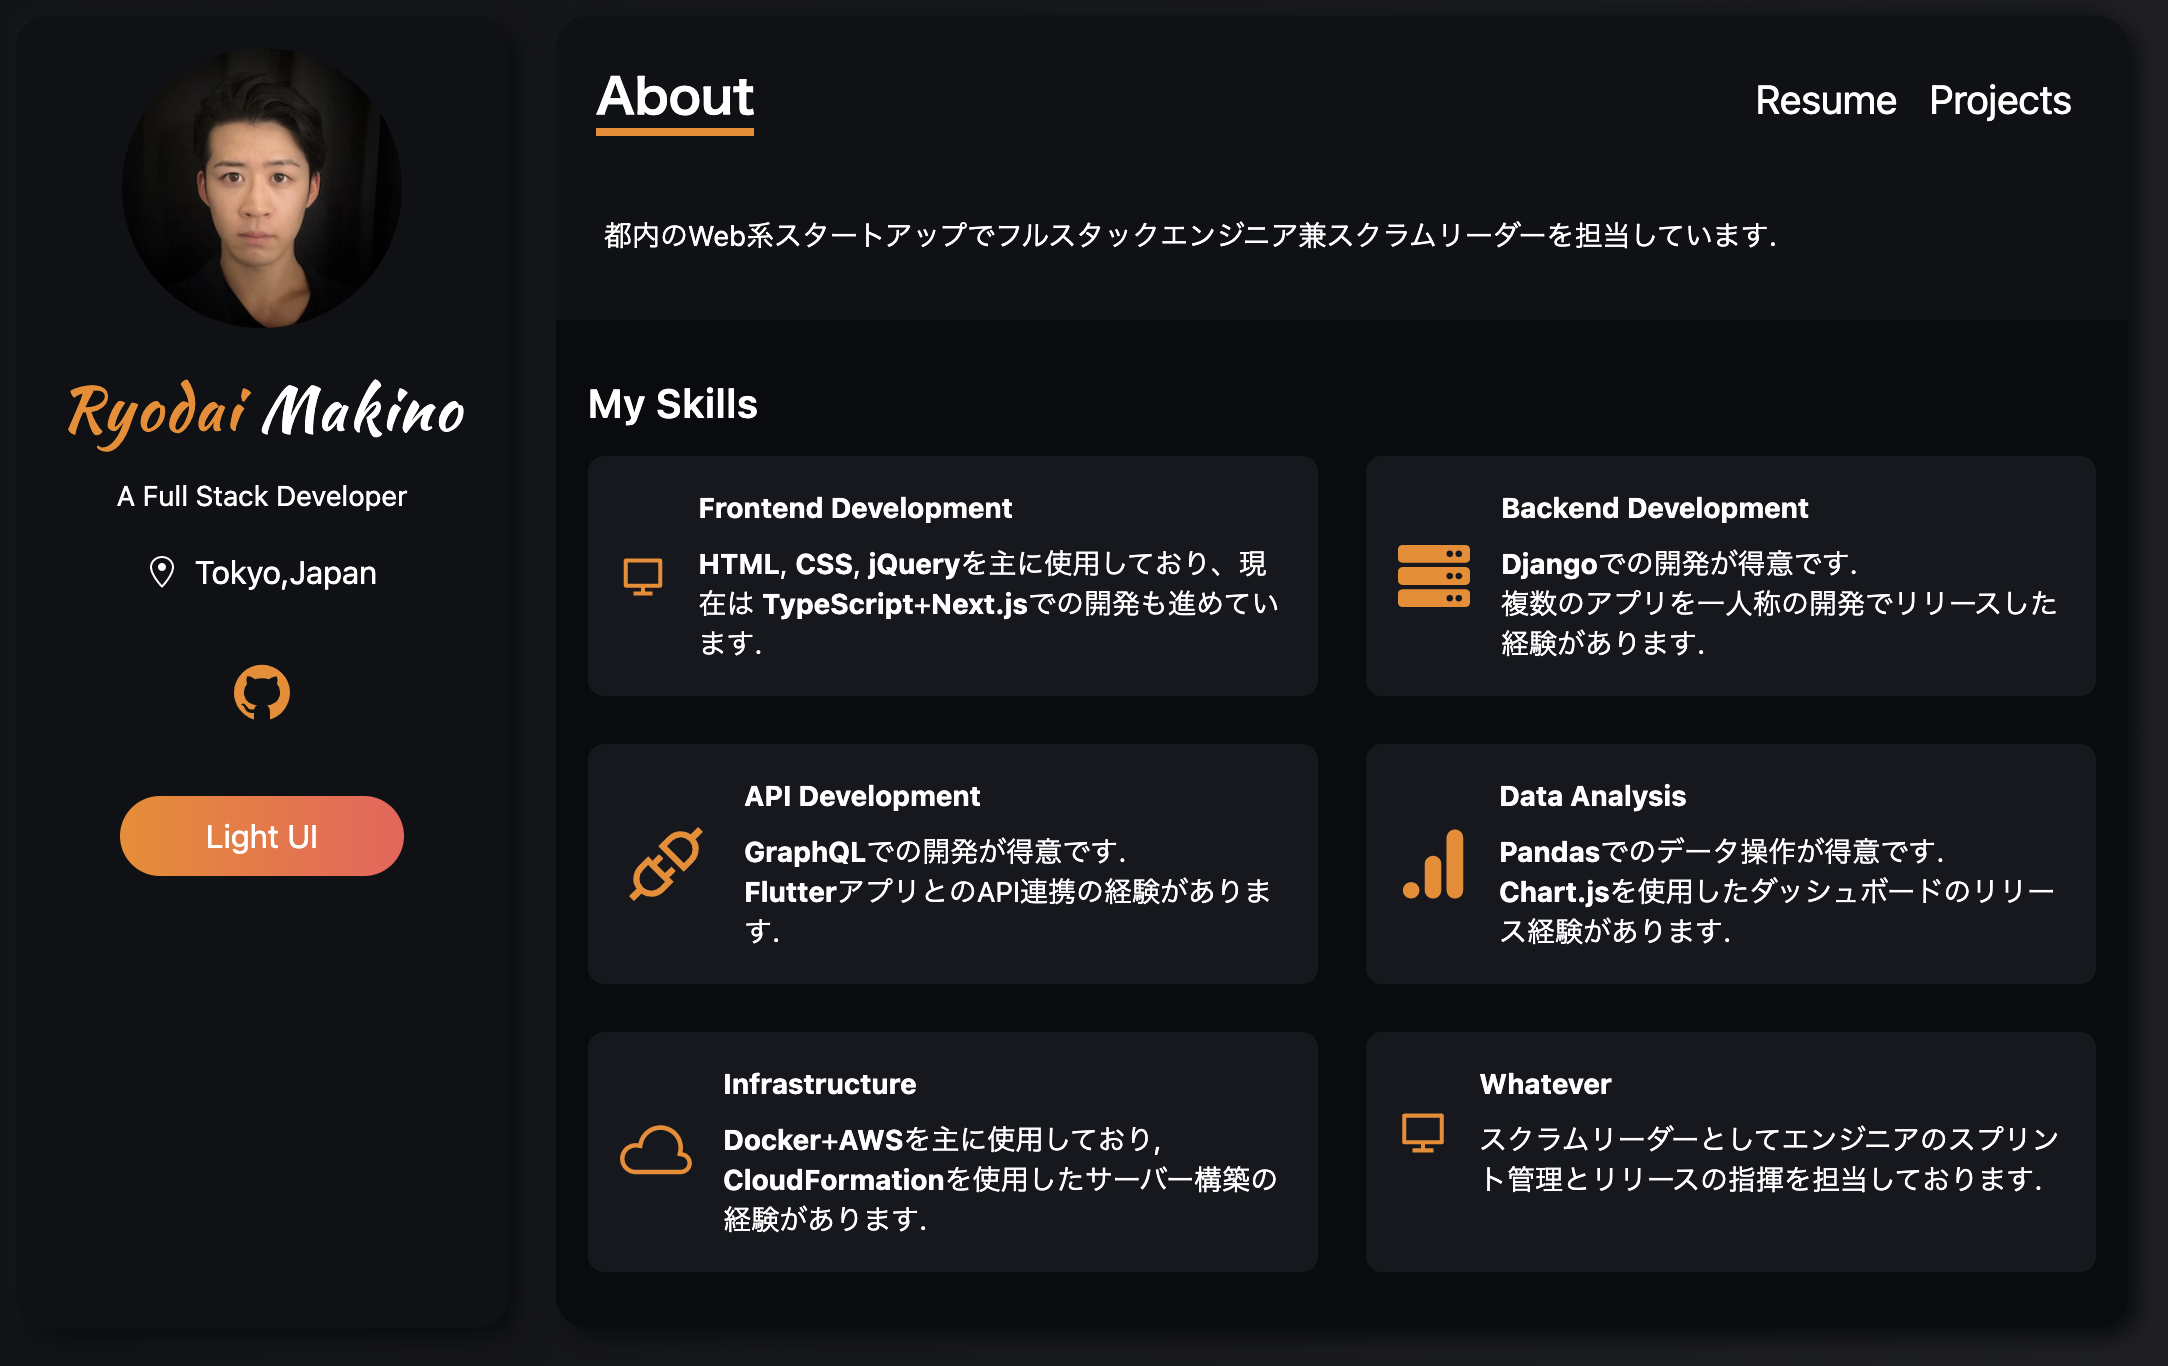
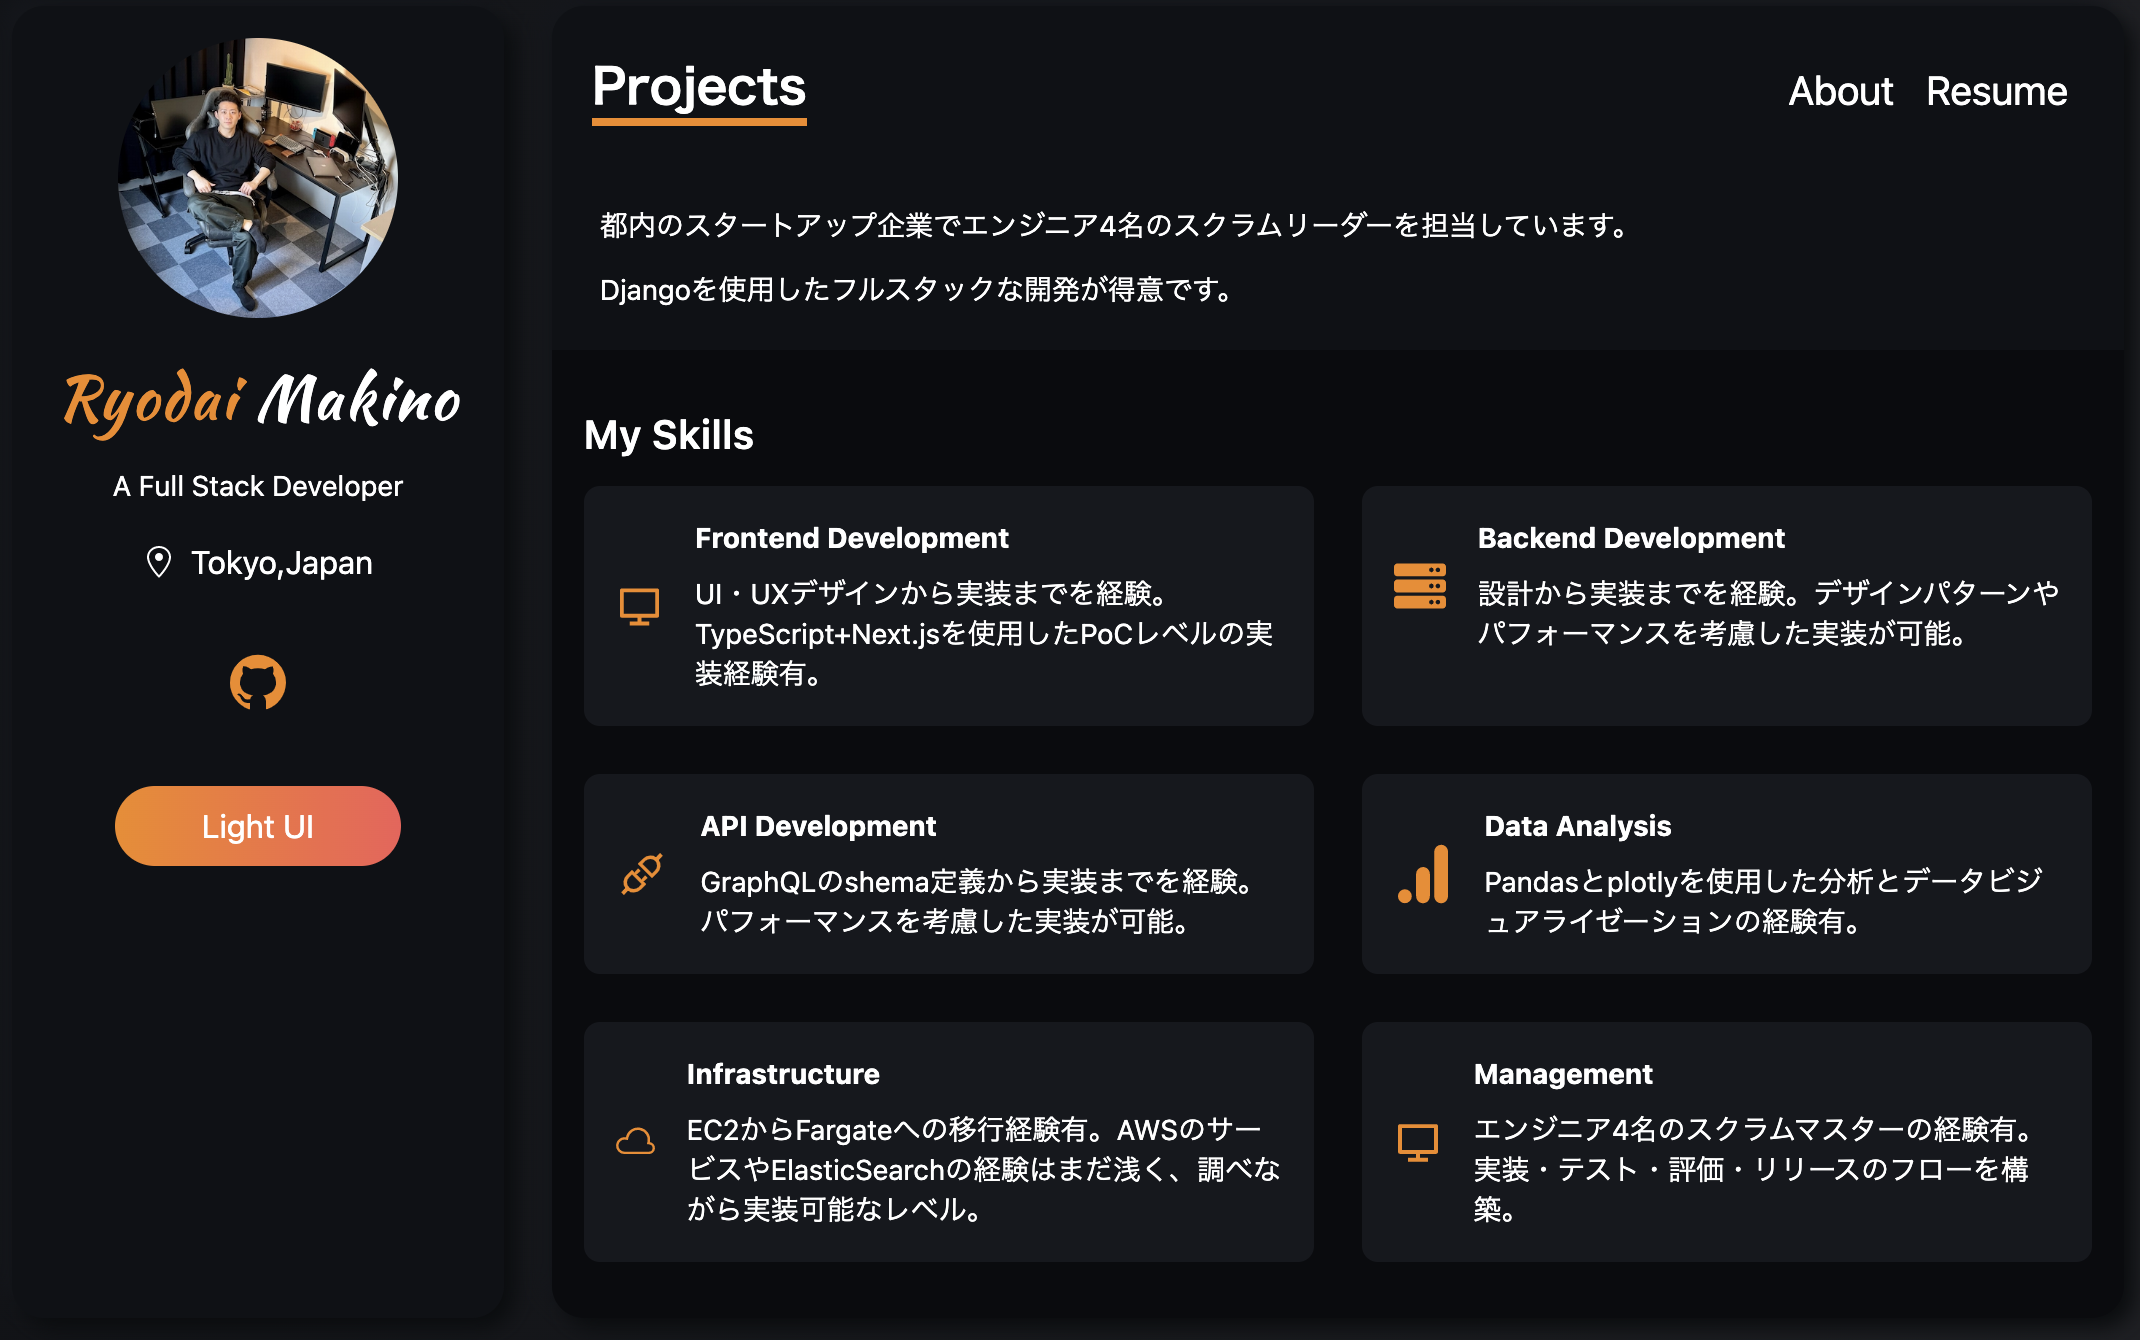
update resume

diff --git a/data.ts b/data.ts
@@ -10,32 +10,32 @@ export const services: Service[] = [
     {
         Icon: RiComputerLine,
         title: "Frontend Development",
-        about: "<b>HTML</b>, <b>CSS</b>, <b>jQuery</b>を使用した開発が得意。現在は<b>TypeScript</b>+<b>Next.js</b>での開発も進行中。",
+        about: "UI・UXデザインから実装までを経験。TypeScript+Next.jsを使用したPoCレベルの実装経験有。",
     },
     {
         Icon: FaServer,
         title: "Backend  Development",
-        about: "<b>Django</b>を使用した開発が得意。</br> 一人称開発で設計から実装までを担当可能。",
+        about: "設計から実装までを経験。Djangoを使用したデザインパターンやパフォーマンスを考慮した実装が可能。",
     },
     {
         Icon: AiOutlineApi,
         title: "API Development",
-        about: "<b>GraphQL</b>を使用した開発が得意。</br> <b>Flutter</b>アプリと連携するAPIの設計・実装の経験有り。 ",
+        about: "GraphQLのshema定義から実装までを経験。パフォーマンス考慮した実装とセキュリティを考慮した認証周りの設計が可能。 ",
     },
     {
         Icon: SiGoogleanalytics,
         title: "Data Analysis",
-        about: "<b>Pandas</b>を使用したデータ操作が得意。 </br><b>Chart.js</b>を使用したダッシュボードをリリースした経験有り。",
+        about: "pandasとplotlyのライブラリを使用した分析とデータビジュアライゼーションの経験有。",
     },
     {
         Icon: BsCloud,
         title: "Infrastructure",
-        about: "<b>Docker</b>+<b>AWS</b>を使用した環境が得意。</br><b>CloudFormation</b>でサーバー構築の経験有り。",
+        about: "EC2からFargateへの移行経験有。AWSのサービスやElasticSearchの経験はまだ浅く、調べながら実装可能なレベル。",
     },
     {
         Icon: RiComputerLine,
-        title: "Whatever",
-        about: "スクラムリーダーとしてエンジニアのスプリント管理とリリースの指揮を担当した経験有り。",
+        title: "Management",
+        about: "エンジニア4名チームのスクラムマスターの経験有。実装・テスト・評価・リリースのフローを構築。",
     },
 ];
 
@@ -52,23 +52,23 @@ export const languages: Skill[] = [
 	},
     {
         Icon: BsCircleFill,
-        name: "Java Script",
-        level: "60",
+        name: "TypeScript",
+        level: "70",
     },
     {
         Icon: BsCircleFill,
-        name: "React",
-        level: "60",
+        name: "React・NextJS",
+        level: "70",
     },
     {
         Icon: BsCircleFill,
-        name: "Flutter",
+        name: "Go",
         level: "40",
     },
     {
         Icon: BsCircleFill,
-        name: "Bootstrap",
-        level: "70",
+        name: "ReactNative",
+        level: "50",
     },
 ];
 
@@ -76,12 +76,12 @@ export const environments: Skill[] = [
     {
         Icon: BsCircleFill,
         name: "AWS",
-        level: "70",
+        level: "80",
     },
     {
         Icon: BsCircleFill,
-        name: "GCP",
-        level: "45",
+        name: "ElasticSearch",
+        level: "50",
     },
     {
         Icon: BsCircleFill,
@@ -95,27 +95,27 @@ export const environments: Skill[] = [
     },
     {
         Icon: BsCircleFill,
-        name: "Redis",
-        level: "40",
+        name: "Redis・Celery",
+        level: "50",
     },
     {
         Icon: BsCircleFill,
         name: "GraphQL",
-        level: "70",
+        level: "80",
     },
 ];
 
 export const projects: IProject[] = [
     {
         id: 0,
-        name: "Twidy",
+        name: "Twidyネットスーパー",
         description:
             "",
         image_path: "/images/twidy.png",
         deployed_url: "https://twidy.jp/ja/",
         github_url: "https://github.com/mirumee/saleor",
         category: ["django"],
-        key_techs: ["django", "OSS", "saleor"],
+        key_techs: ["Django"],
     },
     {
         id: 1,
@@ -126,7 +126,7 @@ export const projects: IProject[] = [
         deployed_url: "",
         github_url: "",
         category: ["django"],
-        key_techs: ["django", "Bootstrap"],
+        key_techs: ["Django"],
     },
     {
         id: 2,
@@ -137,7 +137,7 @@ export const projects: IProject[] = [
         deployed_url: "",
         github_url: "",
         category: ["django"],
-        key_techs: ["django", "Bootstrap"],
+        key_techs: ["Django"],
     },
     {
         id: 3,
@@ -148,7 +148,7 @@ export const projects: IProject[] = [
         deployed_url: "",
         github_url: "",
         category: ["django"],
-        key_techs: ["django", "OSS", "AdminLTE", "Cart.js"],
+        key_techs: ["Django"],
     },
     {
         id: 4,
@@ -159,6 +159,6 @@ export const projects: IProject[] = [
         deployed_url: "",
         github_url: "",
         category: ["react"],
-        key_techs: ["Next.js", "Tailwind CSS"],
+        key_techs: ["React"],
     },
 ];

diff --git a/pages/resume.tsx b/pages/resume.tsx
@@ -28,10 +28,14 @@ const Resume = () => {
                             保険医療学部臨床工学科
                         </p>
                         <p className="my-3 font-sans text-sm">
-                            手術支援ロボットのdaVinciに惹かれ、臨床工学技士を目指し大学に入学。
-                            学年成績と資格試験でトップをとることができ、特待生に選出される。
-                            大学2年次にプログラミングに興味を持ち始め、エンジニアとしての道を目指すようになり大学を中退。
+                            臨床工学技士を目指し大学に入学。
+                            特待生に選出される。
                         </p>
+                    </div>
+                    <div className="">
+                        <h5 className="my-2 font-sans text-sm font-bold">
+                            ・帯広三条高校 (2014/4 - 2017/3 卒業)
+                        </h5>
                     </div>
                 </motion.div>
                 <motion.div
@@ -42,25 +46,24 @@ const Resume = () => {
                     <h5 className="my-3 font-sans text-xl font-bold">経歴</h5>
                     <div className="">
                         <p className="font-sans text-sm font-semibold">
+                            ・WFrontier株式会社 (2020/8 - 現在)
+                        </p>
+                        <h5 className="my-2 font-sans text-sm font-bold">
+                            フルスタックエンジニア・スクラムマスター
+                        </h5>
+                        <p className="my-3 font-sans text-sm">
+                            ネットスーパーTwidyのリリースから倒産寸前までを経験。
+                        </p>
+                    </div>
+                    <div className="">
+                        <p className="font-sans text-sm font-semibold">
                             ・株式会社Canvas (2020/3 - 2020/8)
                         </p>
                         <h5 className="my-2 font-sans text-sm font-bold">
                             SES(サーバー保守・運用)
                         </h5>
                         <p className="my-3 font-sans text-sm">
-                            銀行系サーバーの保守用shellscriptの実装を担当。
-                        </p>
-                    </div>
-                    <div className="">
-                        <p className="font-sans text-sm font-semibold">
-                            ・WFrontier株式会社 (2020/8 - 現在)
-                        </p>
-                        <h5 className="my-2 font-sans text-sm font-bold">
-                            フルスタックエンジニア Jr.
-                        </h5>
-                        <p className="my-3 font-sans text-sm">
-                            買い物代行サービスTwidyのリリースに貢献。
-                            IT導入補助金対象となるWebツール（商品管理ダッシュボード・メルマガ配信ツール・データ分析ダッシュボード）を一人称開発でリリース。
+                            銀行系サーバーの保守用shellscriptの実装を経験。
                         </p>
                     </div>
                 </motion.div>

diff --git a/pages/index.tsx b/pages/index.tsx
@@ -13,7 +13,10 @@ const index = () => {
             exit="exit"
         >
             <h6 className="my-3 font-sans text-sm">
-                都内のスタートアップ企業でフルスタックエンジニア兼スクラムリーダーを担当しています。
+                都内のスタートアップ企業でエンジニア4名のスクラムリーダーを担当しています。
+            </h6>
+            <h6 className="font-sans text-sm">
+                Djangoを使用したフルスタックな開発が得意です。
             </h6>
             <div
                 className="flex-grow p-4 mt-5 bg-gray-400 dark:bg-dark-100 "
